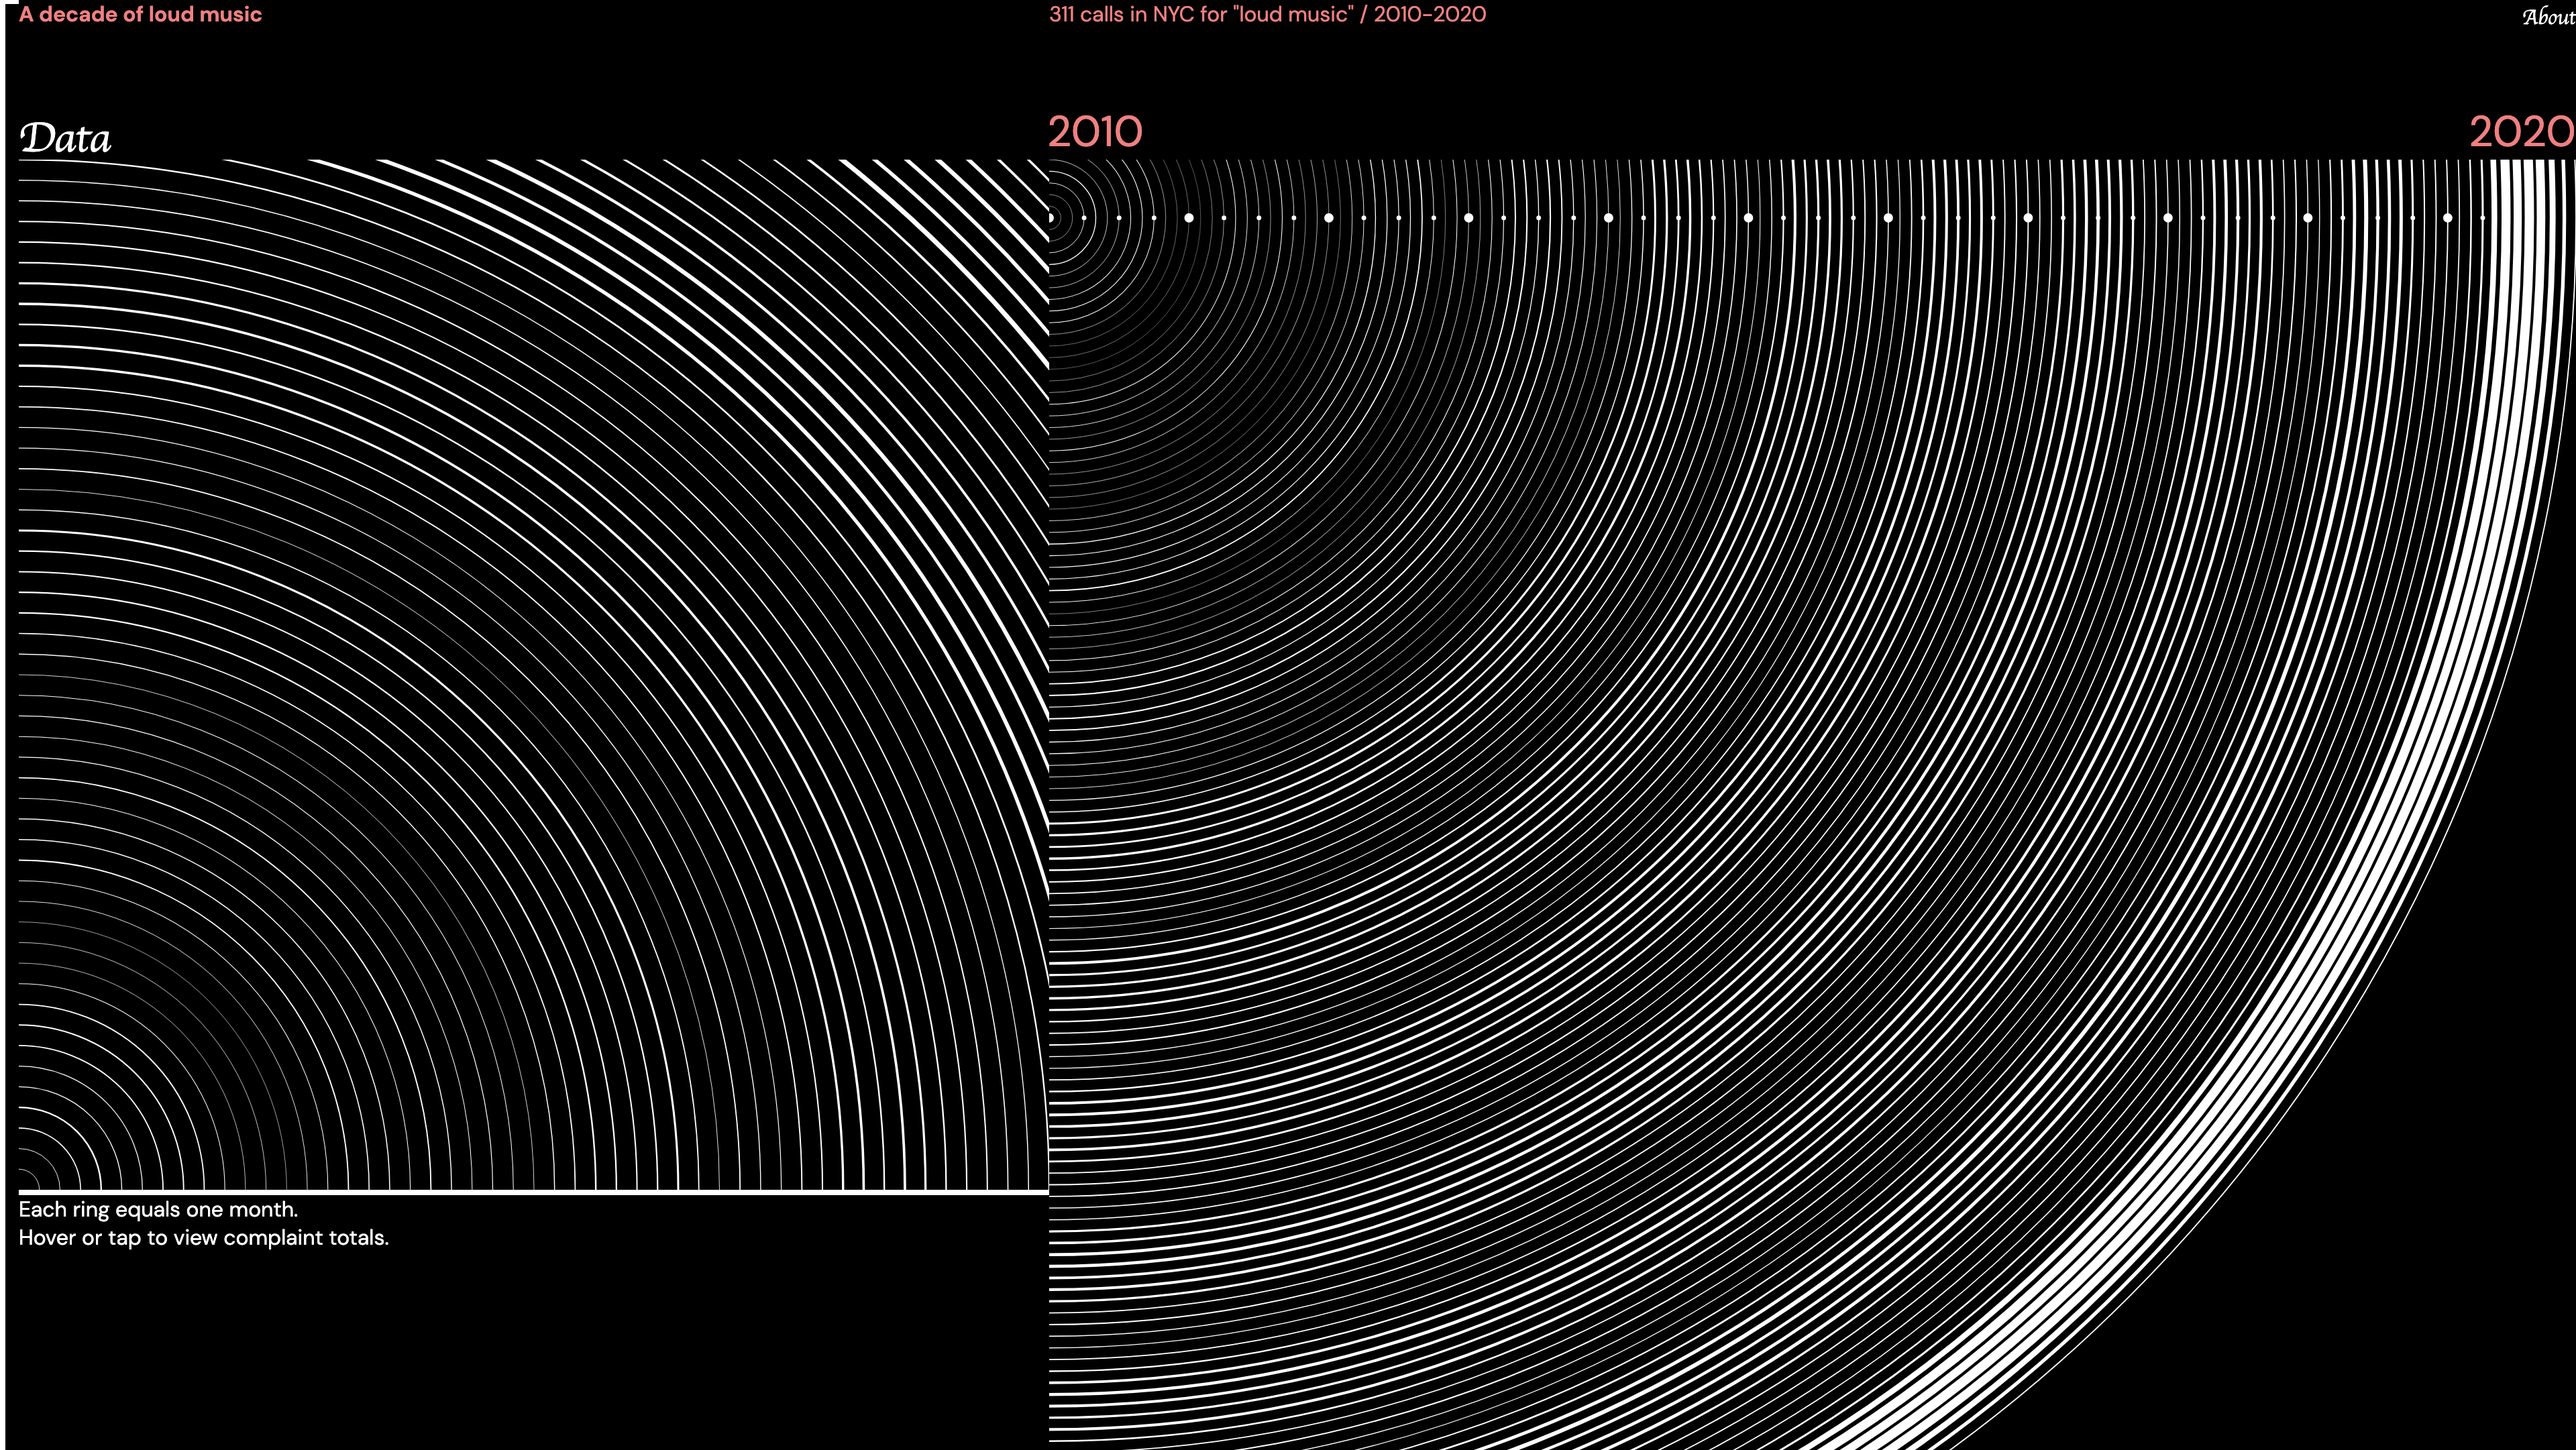
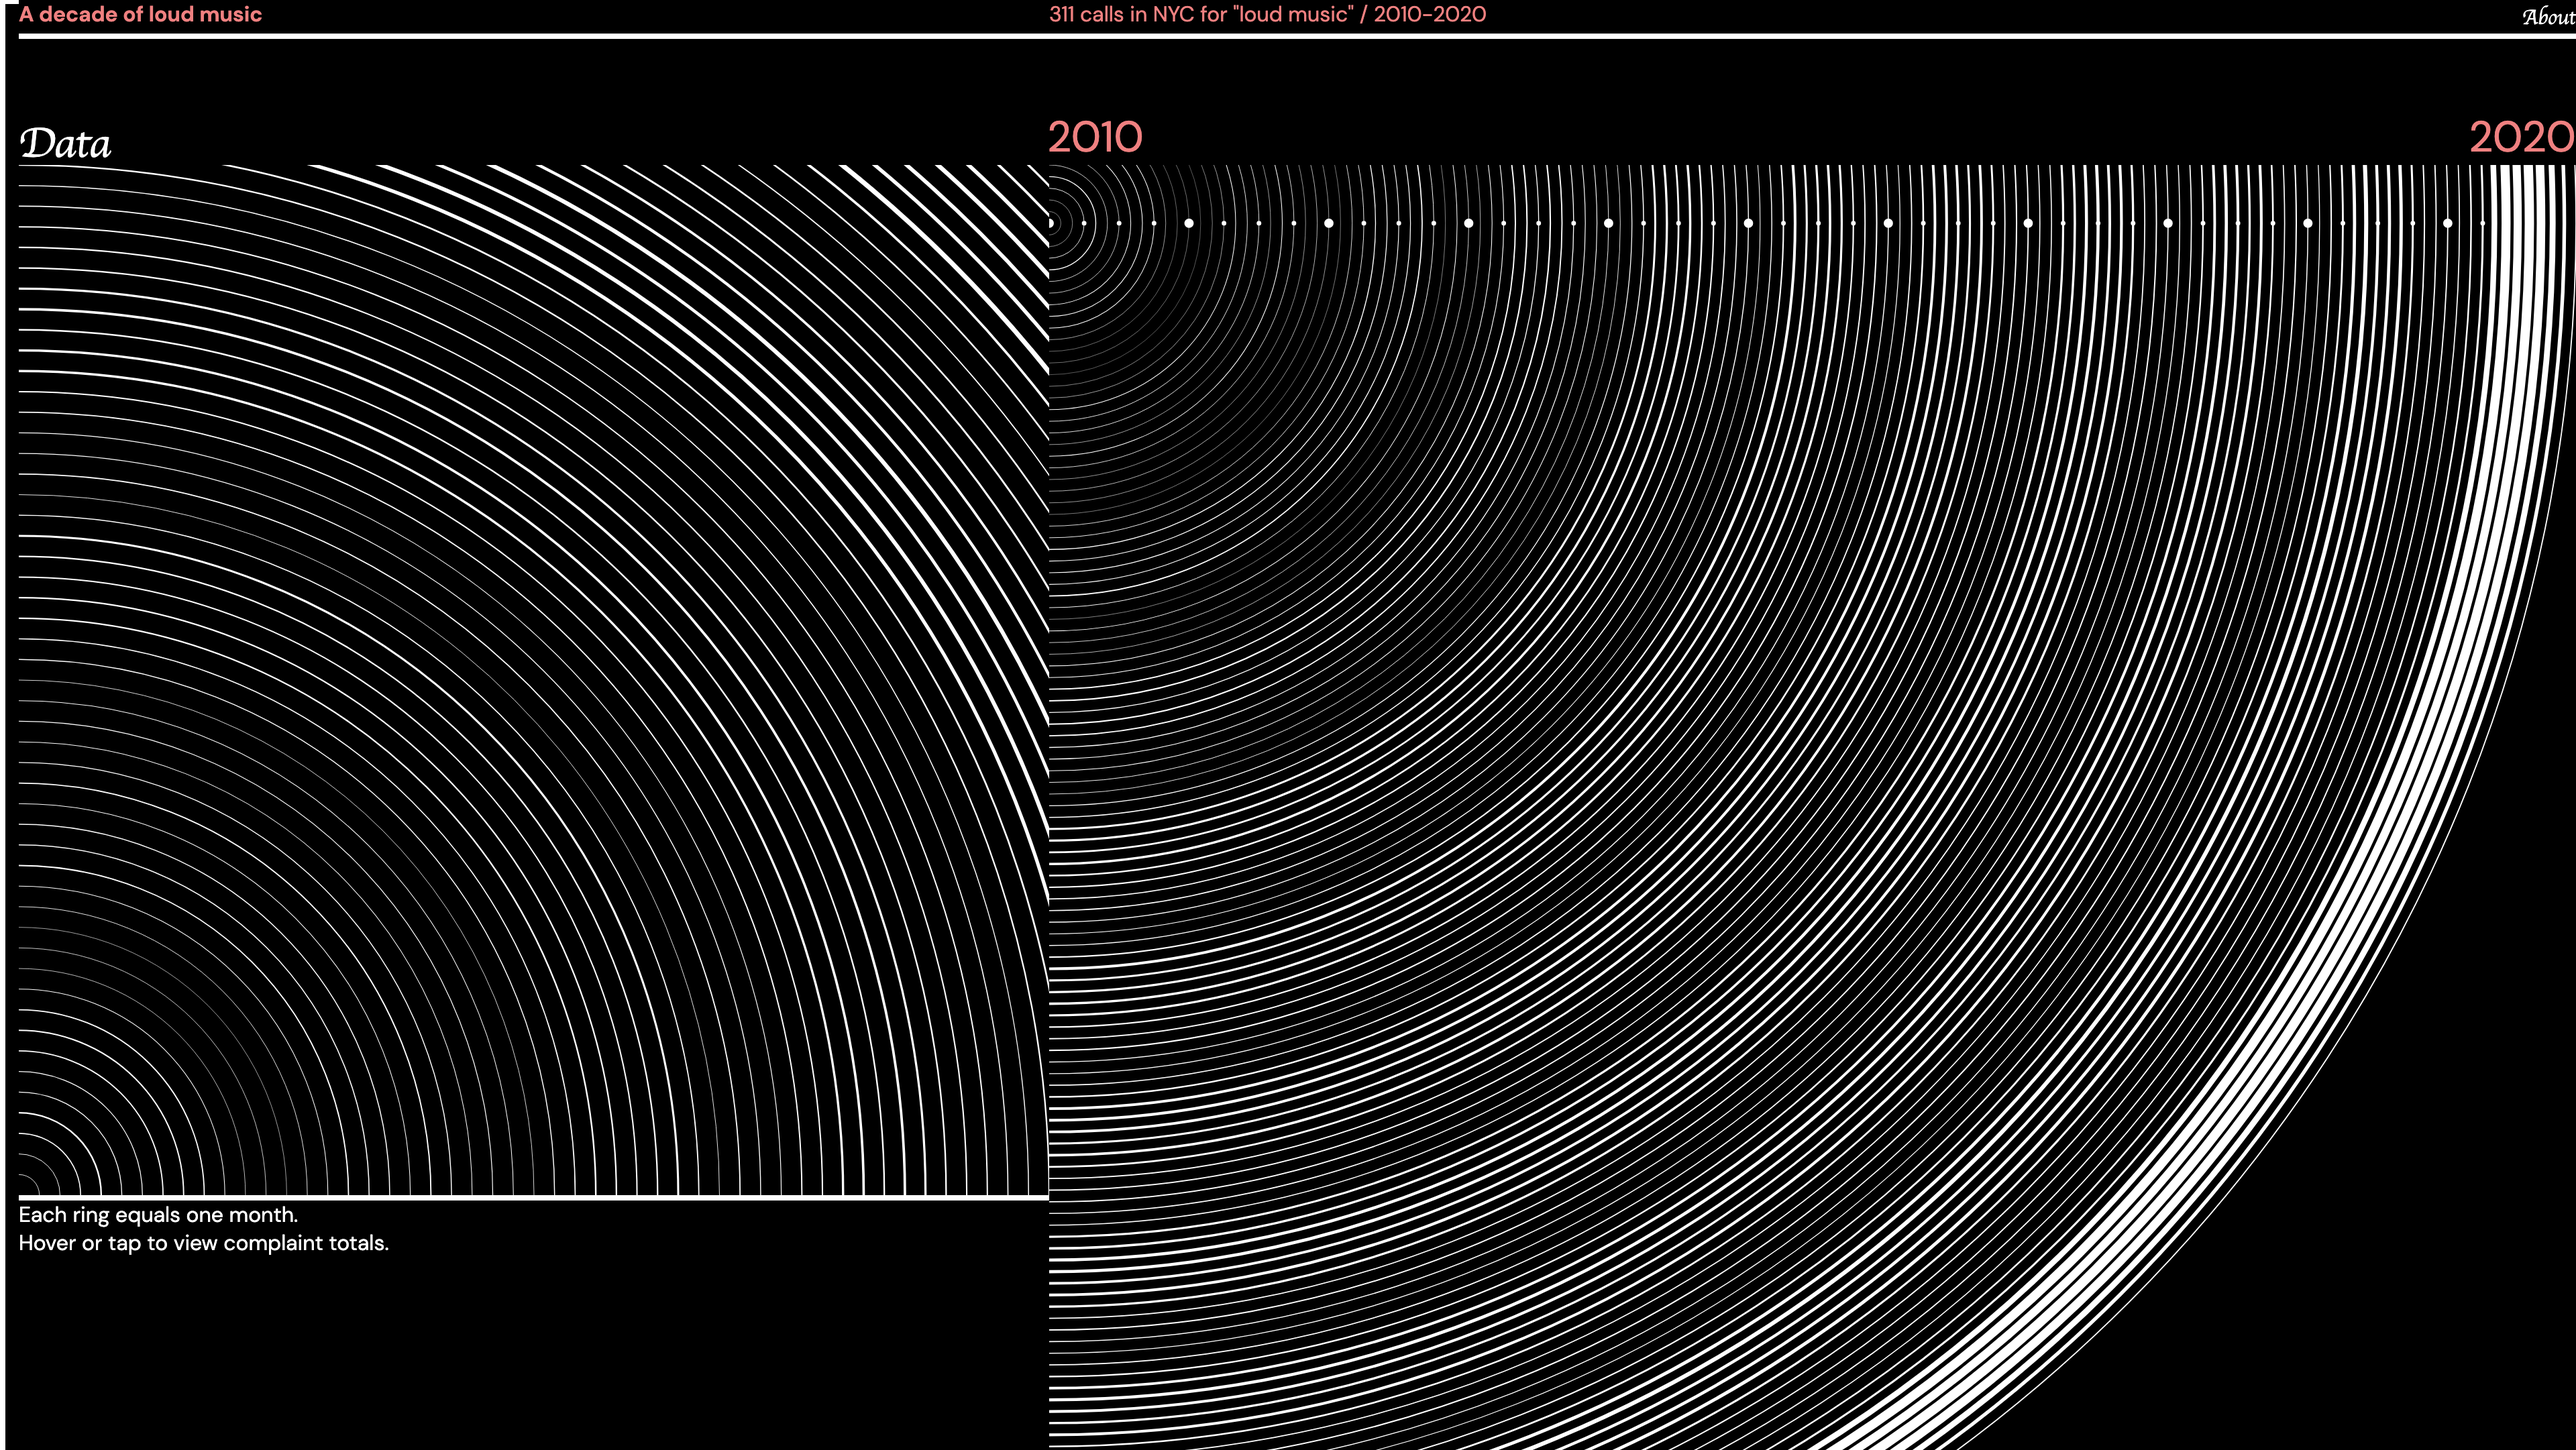
layout

Changed region(s): [[0.0, 0.062, 1.0, 1.0], [0.0312, 0.0, 1.0, 0.031], [0.9375, 0.062, 1.0, 0.124]]

diff --git a/styles/styles.css b/styles/styles.css
@@ -85,6 +85,12 @@ a:visited{
     width: 100%;
     margin:0px;
     margin-left:14px;
+    border-left: 0px;
+    border-top: 0px;
+    border-right: 0px;
+    border-bottom: 4px;
+    border-color: white;
+    border-style: solid;
     /* margin-right:50px; */
     /* pointer-events: none; */
 }
